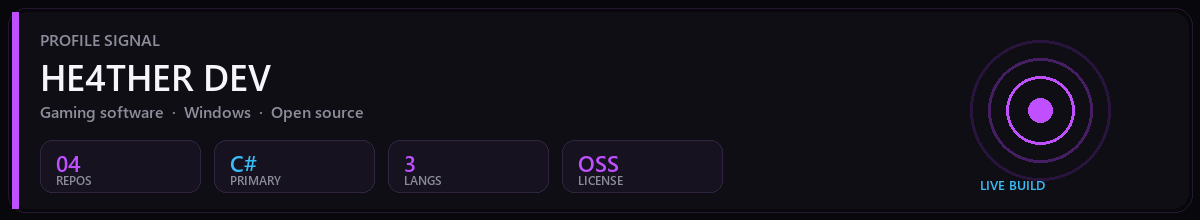
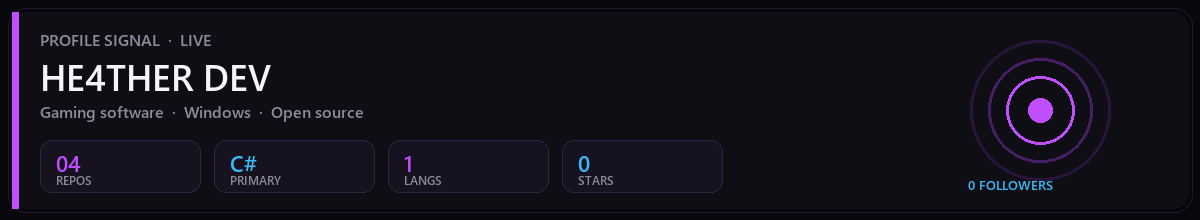
Auto-refresh branded profile stats from live GitHub data.

diff --git a/scripts/generate_stats_hero.py b/scripts/generate_stats_hero.py
@@ -1,0 +1,113 @@
+"""Generate assets/stats-hero.png from live GitHub API data."""
+from __future__ import annotations
+
+import json
+import os
+import urllib.request
+from pathlib import Path
+
+from PIL import Image, ImageDraw, ImageFont
+
+ROOT = Path(__file__).resolve().parents[1]
+ASSETS = ROOT / "assets"
+OUT = ASSETS / "stats-hero.png"
+USER = os.environ.get("GITHUB_ACTOR") or os.environ.get("GH_USER") or "He4TheR-Dev"
+TOKEN = os.environ.get("GITHUB_TOKEN") or os.environ.get("GH_TOKEN") or ""
+
+
+def font(size: int):
+    for p in (
+        r"C:\Windows\Fonts\seguisb.ttf",
+        "/usr/share/fonts/truetype/dejavu/DejaVuSans-Bold.ttf",
+        "/usr/share/fonts/truetype/liberation/LiberationSans-Bold.ttf",
+        r"C:\Windows\Fonts\segoeuib.ttf",
+        r"C:\Windows\Fonts\arialbd.ttf",
+    ):
+        if Path(p).exists():
+            return ImageFont.truetype(p, size)
+    return ImageFont.load_default()
+
+
+def api(url: str):
+    req = urllib.request.Request(
+        url,
+        headers={
+            "Accept": "application/vnd.github+json",
+            "User-Agent": "he4ther-stats",
+            **({"Authorization": f"Bearer {TOKEN}"} if TOKEN else {}),
+        },
+    )
+    with urllib.request.urlopen(req, timeout=30) as resp:
+        return json.load(resp)
+
+
+def fetch_stats():
+    user = api(f"https://api.github.com/users/{USER}")
+    repos = api(f"https://api.github.com/users/{USER}/repos?per_page=100&type=owner&sort=updated")
+    own = [r for r in repos if not r.get("fork")]
+    stars = sum(r.get("stargazers_count", 0) for r in own)
+    langs = {}
+    for r in own:
+        lang = r.get("language")
+        if lang:
+            langs[lang] = langs.get(lang, 0) + 1
+    primary = max(langs, key=langs.get) if langs else "—"
+    return {
+        "repos": len(own),
+        "stars": stars,
+        "followers": user.get("followers", 0),
+        "langs": len(langs),
+        "primary": primary,
+        "name": user.get("name") or USER,
+    }
+
+
+def render(stats: dict):
+    W, H = 1200, 220
+    BG, CARD = (8, 8, 12), (14, 14, 20)
+    PURPLE, CYAN = (192, 80, 255), (56, 189, 248)
+    TEXT, MUTED = (245, 245, 250), (140, 140, 155)
+
+    img = Image.new("RGB", (W, H), BG)
+    d = ImageDraw.Draw(img)
+    d.rounded_rectangle((8, 8, W - 8, H - 8), radius=18, outline=(36, 24, 48), width=1)
+    d.rounded_rectangle((12, 12, W - 12, H - 12), radius=16, fill=CARD)
+    d.rectangle((12, 12, 18, H - 12), fill=PURPLE)
+
+    d.text((40, 28), "PROFILE SIGNAL  ·  LIVE", font=font(16), fill=MUTED)
+    d.text((40, 52), str(stats["name"]).upper(), font=font(36), fill=TEXT)
+    d.text((40, 100), "Gaming software  ·  Windows  ·  Open source", font=font(16), fill=MUTED)
+
+    metrics = [
+        (f"{stats['repos']:02d}", "REPOS", PURPLE),
+        (str(stats["primary"]), "PRIMARY", CYAN),
+        (f"{stats['langs']}", "LANGS", PURPLE),
+        (f"{stats['stars']}", "STARS", CYAN),
+    ]
+    x, y = 40, 140
+    for value, label, color in metrics:
+        box_w = 160
+        d.rounded_rectangle(
+            (x, y, x + box_w, y + 52),
+            radius=12,
+            fill=(22, 18, 32),
+            outline=(48, 36, 64),
+            width=1,
+        )
+        d.text((x + 16, y + 8), str(value)[:8], font=font(22), fill=color)
+        d.text((x + 16, y + 32), label, font=font(12), fill=MUTED)
+        x += box_w + 14
+
+    cx, cy = 1040, 110
+    for r, col in ((70, (40, 20, 60)), (52, (70, 30, 100)), (34, PURPLE)):
+        d.ellipse((cx - r, cy - r, cx + r, cy + r), outline=col, width=3)
+    d.ellipse((cx - 12, cy - 12, cx + 12, cy + 12), fill=PURPLE)
+    d.text((968, 175), f"{stats['followers']} FOLLOWERS", font=font(13), fill=CYAN)
+
+    ASSETS.mkdir(parents=True, exist_ok=True)
+    img.save(OUT, optimize=True)
+    print(f"wrote {OUT} repos={stats['repos']} primary={stats['primary']}")
+
+
+if __name__ == "__main__":
+    render(fetch_stats())
